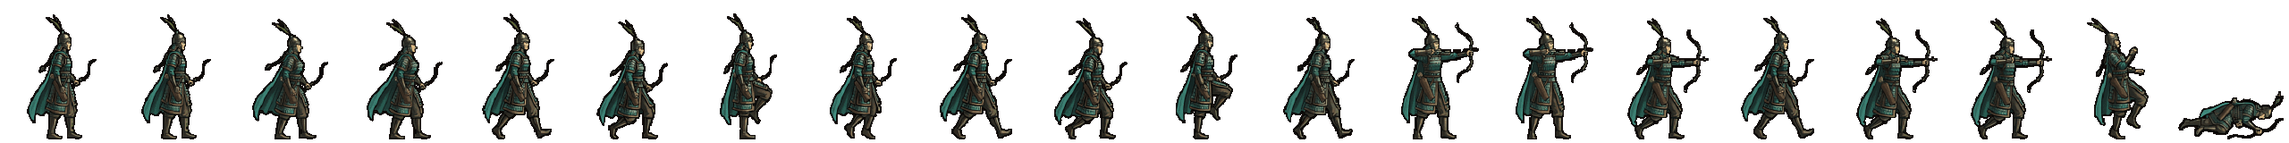
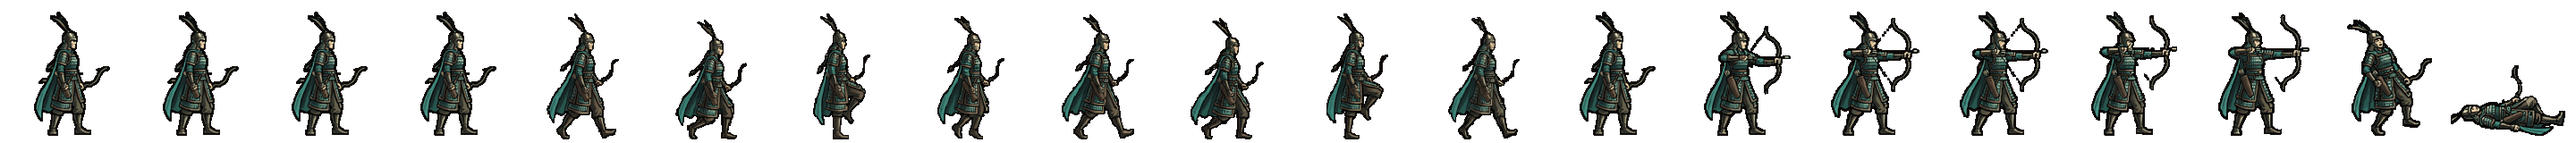
여궁수 기본 띠: 동작 8컷만 새로 (제미나이 edu Pro) — 공격 14·15칸에서 활이 빠지던 것 해결, 모든 칸에 활 한 장
Claude-Session: https://claude.ai/code/session_01TRiuN9kn81xgdziumEqNAF

diff --git a/src/realm/data/spritePx.ts b/src/realm/data/spritePx.ts
@@ -1,2 +1,2 @@
 /** public/realm/anim-px/manifest.json 의 사본 — tools/sprite-normalize.mjs 가 만든다 (손으로 고치지 말 것). 칸 [가로, 세로] · feet = 발 줄(칸 위에서 y) · bodyPx = 서 있는 몸 키 */
-export const SPRITE_PX: Readonly<Record<string, { readonly cell: readonly [number, number]; readonly feet: number; readonly bodyPx: number; readonly kind: 'general' | 'soldier' | 'folk' | 'crowd'; readonly cells: number }>> = {"axe":{"cell":[166,128],"feet":126,"bodyPx":124,"kind":"soldier","cells":20},"bandit-chief":{"cell":[116,128],"feet":126,"bodyPx":117,"kind":"soldier","cells":20},"bandit-club":{"cell":[127,128],"feet":126,"bodyPx":116,"kind":"soldier","cells":20},"boat":{"cell":[269,128],"feet":126,"bodyPx":126,"kind":"soldier","cells":20},"bow":{"cell":[503,128],"feet":126,"bodyPx":127,"kind":"soldier","cells":20},"crossbow":{"cell":[614,128],"feet":126,"bodyPx":126,"kind":"soldier","cells":20},"gen-adogan":{"cell":[144,160],"feet":156,"bodyPx":70,"kind":"general","cells":20},"gen-alpyeong":{"cell":[144,160],"feet":156,"bodyPx":70,"kind":"general","cells":20},"gen-ara":{"cell":[160,160],"feet":156,"bodyPx":70,"kind":"general","cells":20},"gen-areum":{"cell":[160,160],"feet":156,"bodyPx":70,"kind":"general","cells":20},"gen-aryeong":{"cell":[208,160],"feet":156,"bodyPx":70,"kind":"general","cells":20},"gen-bakdal":{"cell":[160,160],"feet":156,"bodyPx":70,"kind":"general","cells":20},"gen-baram":{"cell":[176,160],"feet":156,"bodyPx":70,"kind":"general","cells":20},"gen-bdanbi":{"cell":[152,160],"feet":156,"bodyPx":70,"kind":"general","cells":20},"gen-beom":{"cell":[168,160],"feet":156,"bodyPx":70,"kind":"general","cells":20},"gen-beombal":{"cell":[216,160],"feet":156,"bodyPx":70,"kind":"general","cells":20},"gen-beomi":{"cell":[160,160],"feet":156,"bodyPx":70,"kind":"general","cells":20},"gen-bira":{"cell":[176,160],"feet":156,"bodyPx":70,"kind":"general","cells":20},"gen-biryu":{"cell":[160,160],"feet":156,"bodyPx":73,"kind":"general","cells":20},"gen-budeul":{"cell":[248,160],"feet":156,"bodyPx":70,"kind":"general","cells":20},"gen-byeol":{"cell":[160,160],"feet":156,"bodyPx":70,"kind":"general","cells":20},"gen-daemusin":{"cell":[152,160],"feet":156,"bodyPx":70,"kind":"general","cells":20},"gen-daeso":{"cell":[176,160],"feet":156,"bodyPx":70,"kind":"general","cells":20},"gen-dallae2":{"cell":[168,160],"feet":156,"bodyPx":70,"kind":"general","cells":20},"gen-dalli":{"cell":[152,160],"feet":156,"bodyPx":70,"kind":"general","cells":20},"gen-damul":{"cell":[152,160],"feet":156,"bodyPx":70,"kind":"general","cells":20},"gen-danbi":{"cell":[152,160],"feet":156,"bodyPx":70,"kind":"general","cells":20},"gen-dangung":{"cell":[192,160],"feet":156,"bodyPx":70,"kind":"general","cells":20},"gen-darae":{"cell":[152,160],"feet":156,"bodyPx":70,"kind":"general","cells":20},"gen-dokmudeom":{"cell":[176,160],"feet":156,"bodyPx":70,"kind":"general","cells":20},"gen-duman":{"cell":[160,160],"feet":156,"bodyPx":70,"kind":"general","cells":20},"gen-eomni":{"cell":[160,160],"feet":156,"bodyPx":70,"kind":"general","cells":20},"gen-eureum":{"cell":[144,160],"feet":156,"bodyPx":70,"kind":"general","cells":20},"gen-g-bow":{"cell":[144,160],"feet":156,"bodyPx":70,"kind":"general","cells":20},"gen-g-spear":{"cell":[208,160],"feet":156,"bodyPx":70,"kind":"general","cells":20},"gen-g-sword":{"cell":[192,160],"feet":156,"bodyPx":70,"kind":"general","cells":20},"gen-gaennae":{"cell":[232,160],"feet":156,"bodyPx":70,"kind":"general","cells":20},"gen-gamsil":{"cell":[160,160],"feet":156,"bodyPx":70,"kind":"general","cells":20},"gen-gaon":{"cell":[152,160],"feet":156,"bodyPx":70,"kind":"general","cells":20},"gen-geota":{"cell":[192,160],"feet":156,"bodyPx":69,"kind":"general","cells":20},"gen-geumbawi":{"cell":[160,160],"feet":156,"bodyPx":70,"kind":"general","cells":20},"gen-geumha":{"cell":[192,160],"feet":156,"bodyPx":72,"kind":"general","cells":20},"gen-goeun":{"cell":[144,160],"feet":156,"bodyPx":70,"kind":"general","cells":20},"gen-gom":{"cell":[168,160],"feet":156,"bodyPx":70,"kind":"general","cells":20},"gen-gomok":{"cell":[152,160],"feet":156,"bodyPx":70,"kind":"general","cells":20},"gen-gureum":{"cell":[168,160],"feet":156,"bodyPx":70,"kind":"general","cells":20},"gen-guryema":{"cell":[152,160],"feet":156,"bodyPx":70,"kind":"general","cells":20},"gen-gwaeyu":{"cell":[200,160],"feet":156,"bodyPx":70,"kind":"general","cells":20},"gen-haebi":{"cell":[152,160],"feet":156,"bodyPx":70,"kind":"general","cells":20},"gen-haedal":{"cell":[152,160],"feet":156,"bodyPx":70,"kind":"general","cells":20},"gen-haesol":{"cell":[168,160],"feet":156,"bodyPx":70,"kind":"general","cells":20},"gen-halla":{"cell":[176,160],"feet":156,"bodyPx":70,"kind":"general","cells":20},"gen-heo":{"cell":[144,160],"feet":156,"bodyPx":70,"kind":"general","cells":20},"gen-hneoul":{"cell":[152,160],"feet":156,"bodyPx":70,"kind":"general","cells":20},"gen-hogong":{"cell":[160,160],"feet":156,"bodyPx":70,"kind":"general","cells":20},"gen-hojin":{"cell":[152,160],"feet":156,"bodyPx":70,"kind":"general","cells":20},"gen-horselord":{"cell":[144,160],"feet":156,"bodyPx":70,"kind":"general","cells":20},"gen-hwalmi":{"cell":[192,160],"feet":156,"bodyPx":70,"kind":"general","cells":20},"gen-hyeokgeose":{"cell":[160,160],"feet":156,"bodyPx":70,"kind":"general","cells":20},"gen-hyeopbo":{"cell":[168,160],"feet":156,"bodyPx":70,"kind":"general","cells":20},"gen-irang":{"cell":[160,160],"feet":156,"bodyPx":70,"kind":"general","cells":20},"gen-jibaekho":{"cell":[160,160],"feet":156,"bodyPx":70,"kind":"general","cells":20},"gen-jinha":{"cell":[168,160],"feet":156,"bodyPx":70,"kind":"general","cells":20},"gen-jita":{"cell":[144,160],"feet":156,"bodyPx":70,"kind":"general","cells":20},"gen-jumong":{"cell":[144,160],"feet":156,"bodyPx":70,"kind":"general","cells":20},"gen-keundol":{"cell":[152,160],"feet":156,"bodyPx":70,"kind":"general","cells":20},"gen-maehwa":{"cell":[144,160],"feet":156,"bodyPx":70,"kind":"general","cells":20},"gen-maenun":{"cell":[136,160],"feet":156,"bodyPx":70,"kind":"general","cells":20},"gen-malgalgi":{"cell":[168,160],"feet":156,"bodyPx":70,"kind":"general","cells":20},"gen-mari":{"cell":[152,160],"feet":156,"bodyPx":70,"kind":"general","cells":20},"gen-maro":{"cell":[160,160],"feet":156,"bodyPx":70,"kind":"general","cells":20},"gen-maryeo":{"cell":[152,160],"feet":156,"bodyPx":70,"kind":"general","cells":20},"gen-mdallae":{"cell":[168,160],"feet":156,"bodyPx":70,"kind":"general","cells":20},"gen-mir":{"cell":[144,160],"feet":156,"bodyPx":70,"kind":"general","cells":20},"gen-mount":{"cell":[232,160],"feet":156,"bodyPx":73,"kind":"general","cells":20},"gen-mulbeom":{"cell":[160,160],"feet":156,"bodyPx":70,"kind":"general","cells":20},"gen-mulsae":{"cell":[168,160],"feet":156,"bodyPx":70,"kind":"general","cells":20},"gen-musoe":{"cell":[152,160],"feet":156,"bodyPx":70,"kind":"general","cells":20},"gen-noeul":{"cell":[160,160],"feet":156,"bodyPx":70,"kind":"general","cells":20},"gen-nuri":{"cell":[168,160],"feet":156,"bodyPx":70,"kind":"general","cells":20},"gen-ocheongan":{"cell":[168,160],"feet":156,"bodyPx":70,"kind":"general","cells":20},"gen-odi":{"cell":[152,160],"feet":156,"bodyPx":70,"kind":"general","cells":20},"gen-odogan":{"cell":[168,160],"feet":156,"bodyPx":70,"kind":"general","cells":20},"gen-ogan":{"cell":[152,160],"feet":156,"bodyPx":70,"kind":"general","cells":20},"gen-oi":{"cell":[152,160],"feet":156,"bodyPx":70,"kind":"general","cells":20},"gen-olddaeso":{"cell":[144,160],"feet":156,"bodyPx":70,"kind":"general","cells":20},"gen-onjo":{"cell":[152,160],"feet":156,"bodyPx":70,"kind":"general","cells":20},"gen-pidogan":{"cell":[152,160],"feet":156,"bodyPx":70,"kind":"general","cells":20},"gen-sagong":{"cell":[160,160],"feet":156,"bodyPx":70,"kind":"general","cells":20},"gen-sdallae":{"cell":[168,160],"feet":156,"bodyPx":70,"kind":"general","cells":20},"gen-sincheongan":{"cell":[160,160],"feet":156,"bodyPx":70,"kind":"general","cells":20},"gen-singwigan":{"cell":[208,160],"feet":156,"bodyPx":70,"kind":"general","cells":20},"gen-sinneoul":{"cell":[176,160],"feet":156,"bodyPx":70,"kind":"general","cells":20},"gen-sobeol":{"cell":[152,160],"feet":156,"bodyPx":70,"kind":"general","cells":20},"gen-soebi":{"cell":[160,160],"feet":156,"bodyPx":70,"kind":"general","cells":20},"gen-soebo":{"cell":[208,160],"feet":156,"bodyPx":72,"kind":"general","cells":20},"gen-soenun":{"cell":[248,160],"feet":156,"bodyPx":70,"kind":"general","cells":20},"gen-sogeumbi":{"cell":[192,160],"feet":156,"bodyPx":70,"kind":"general","cells":20},"gen-songbi":{"cell":[152,160],"feet":156,"bodyPx":70,"kind":"general","cells":20},"gen-songyang":{"cell":[136,160],"feet":156,"bodyPx":70,"kind":"general","cells":20},"gen-sori":{"cell":[208,160],"feet":156,"bodyPx":70,"kind":"general","cells":20},"gen-soseono":{"cell":[208,160],"feet":156,"bodyPx":70,"kind":"general","cells":20},"gen-suro":{"cell":[160,160],"feet":156,"bodyPx":70,"kind":"general","cells":20},"gen-tahae":{"cell":[152,160],"feet":156,"bodyPx":70,"kind":"general","cells":20},"gen-tneoul":{"cell":[152,160],"feet":156,"bodyPx":70,"kind":"general","cells":20},"gen-w-bow":{"cell":[128,160],"feet":156,"bodyPx":70,"kind":"general","cells":20},"gen-w-spear":{"cell":[176,160],"feet":156,"bodyPx":70,"kind":"general","cells":20},"gen-waechief":{"cell":[152,160],"feet":156,"bodyPx":70,"kind":"general","cells":20},"gen-wan":{"cell":[144,160],"feet":156,"bodyPx":70,"kind":"general","cells":20},"gen-yeodogan":{"cell":[176,160],"feet":156,"bodyPx":70,"kind":"general","cells":20},"gen-yucheongan":{"cell":[152,160],"feet":156,"bodyPx":70,"kind":"general","cells":20},"gen-yusugan":{"cell":[168,160],"feet":156,"bodyPx":70,"kind":"general","cells":20},"horse":{"cell":[186,128],"feet":126,"bodyPx":127,"kind":"soldier","cells":20},"marine":{"cell":[298,128],"feet":126,"bodyPx":126,"kind":"soldier","cells":20},"migrant":{"cell":[82,128],"feet":126,"bodyPx":114,"kind":"folk","cells":8},"militia":{"cell":[134,128],"feet":126,"bodyPx":119,"kind":"soldier","cells":20},"pike":{"cell":[380,128],"feet":126,"bodyPx":124,"kind":"soldier","cells":20},"pirate-captain":{"cell":[114,128],"feet":126,"bodyPx":115,"kind":"soldier","cells":20},"pirate-sword":{"cell":[122,128],"feet":126,"bodyPx":114,"kind":"soldier","cells":20},"shield":{"cell":[254,128],"feet":126,"bodyPx":128,"kind":"soldier","cells":20},"spear":{"cell":[438,128],"feet":126,"bodyPx":126,"kind":"soldier","cells":20},"villager-builder":{"cell":[88,128],"feet":126,"bodyPx":113,"kind":"folk","cells":8},"villager-farmer":{"cell":[100,128],"feet":126,"bodyPx":115,"kind":"folk","cells":8},"villager-porter":{"cell":[108,128],"feet":126,"bodyPx":115,"kind":"folk","cells":8},"villager-woman":{"cell":[63,128],"feet":126,"bodyPx":113,"kind":"folk","cells":8},"crowd-b1":{"cell":[69,96],"feet":96,"bodyPx":96,"kind":"crowd","cells":1},"crowd-b2":{"cell":[54,96],"feet":96,"bodyPx":96,"kind":"crowd","cells":1},"crowd-b3":{"cell":[47,96],"feet":96,"bodyPx":96,"kind":"crowd","cells":1},"crowd-b4":{"cell":[49,96],"feet":96,"bodyPx":96,"kind":"crowd","cells":1},"crowd-b5":{"cell":[57,96],"feet":96,"bodyPx":96,"kind":"crowd","cells":1},"crowd-b6":{"cell":[55,96],"feet":96,"bodyPx":96,"kind":"crowd","cells":1},"crowd-f1":{"cell":[69,96],"feet":96,"bodyPx":96,"kind":"crowd","cells":1},"crowd-f2":{"cell":[55,96],"feet":96,"bodyPx":96,"kind":"crowd","cells":1},"crowd-f3":{"cell":[45,96],"feet":96,"bodyPx":96,"kind":"crowd","cells":1},"crowd-f4":{"cell":[53,96],"feet":96,"bodyPx":96,"kind":"crowd","cells":1},"crowd-f5":{"cell":[69,96],"feet":96,"bodyPx":96,"kind":"crowd","cells":1},"crowd-f6":{"cell":[64,96],"feet":96,"bodyPx":96,"kind":"crowd","cells":1},"gen-dalbit":{"cell":[96,72],"feet":72,"bodyPx":72,"kind":"general","cells":20}}
+export const SPRITE_PX: Readonly<Record<string, { readonly cell: readonly [number, number]; readonly feet: number; readonly bodyPx: number; readonly kind: 'general' | 'soldier' | 'folk' | 'crowd'; readonly cells: number }>> = {"axe":{"cell":[166,128],"feet":126,"bodyPx":124,"kind":"soldier","cells":20},"bandit-chief":{"cell":[116,128],"feet":126,"bodyPx":117,"kind":"soldier","cells":20},"bandit-club":{"cell":[127,128],"feet":126,"bodyPx":116,"kind":"soldier","cells":20},"boat":{"cell":[269,128],"feet":126,"bodyPx":126,"kind":"soldier","cells":20},"bow":{"cell":[503,128],"feet":126,"bodyPx":127,"kind":"soldier","cells":20},"crossbow":{"cell":[614,128],"feet":126,"bodyPx":126,"kind":"soldier","cells":20},"gen-adogan":{"cell":[144,160],"feet":156,"bodyPx":70,"kind":"general","cells":20},"gen-alpyeong":{"cell":[144,160],"feet":156,"bodyPx":70,"kind":"general","cells":20},"gen-ara":{"cell":[160,160],"feet":156,"bodyPx":70,"kind":"general","cells":20},"gen-areum":{"cell":[160,160],"feet":156,"bodyPx":70,"kind":"general","cells":20},"gen-aryeong":{"cell":[208,160],"feet":156,"bodyPx":70,"kind":"general","cells":20},"gen-bakdal":{"cell":[160,160],"feet":156,"bodyPx":70,"kind":"general","cells":20},"gen-baram":{"cell":[176,160],"feet":156,"bodyPx":70,"kind":"general","cells":20},"gen-bdanbi":{"cell":[152,160],"feet":156,"bodyPx":70,"kind":"general","cells":20},"gen-beom":{"cell":[168,160],"feet":156,"bodyPx":70,"kind":"general","cells":20},"gen-beombal":{"cell":[216,160],"feet":156,"bodyPx":70,"kind":"general","cells":20},"gen-beomi":{"cell":[160,160],"feet":156,"bodyPx":70,"kind":"general","cells":20},"gen-bira":{"cell":[176,160],"feet":156,"bodyPx":70,"kind":"general","cells":20},"gen-biryu":{"cell":[160,160],"feet":156,"bodyPx":73,"kind":"general","cells":20},"gen-budeul":{"cell":[248,160],"feet":156,"bodyPx":70,"kind":"general","cells":20},"gen-byeol":{"cell":[160,160],"feet":156,"bodyPx":70,"kind":"general","cells":20},"gen-daemusin":{"cell":[152,160],"feet":156,"bodyPx":70,"kind":"general","cells":20},"gen-daeso":{"cell":[176,160],"feet":156,"bodyPx":70,"kind":"general","cells":20},"gen-dallae2":{"cell":[168,160],"feet":156,"bodyPx":70,"kind":"general","cells":20},"gen-dalli":{"cell":[152,160],"feet":156,"bodyPx":70,"kind":"general","cells":20},"gen-damul":{"cell":[152,160],"feet":156,"bodyPx":70,"kind":"general","cells":20},"gen-danbi":{"cell":[152,160],"feet":156,"bodyPx":70,"kind":"general","cells":20},"gen-dangung":{"cell":[192,160],"feet":156,"bodyPx":70,"kind":"general","cells":20},"gen-darae":{"cell":[152,160],"feet":156,"bodyPx":70,"kind":"general","cells":20},"gen-dokmudeom":{"cell":[176,160],"feet":156,"bodyPx":70,"kind":"general","cells":20},"gen-duman":{"cell":[160,160],"feet":156,"bodyPx":70,"kind":"general","cells":20},"gen-eomni":{"cell":[160,160],"feet":156,"bodyPx":70,"kind":"general","cells":20},"gen-eureum":{"cell":[144,160],"feet":156,"bodyPx":70,"kind":"general","cells":20},"gen-g-bow":{"cell":[144,160],"feet":156,"bodyPx":70,"kind":"general","cells":20},"gen-g-spear":{"cell":[208,160],"feet":156,"bodyPx":70,"kind":"general","cells":20},"gen-g-sword":{"cell":[192,160],"feet":156,"bodyPx":70,"kind":"general","cells":20},"gen-gaennae":{"cell":[232,160],"feet":156,"bodyPx":70,"kind":"general","cells":20},"gen-gamsil":{"cell":[160,160],"feet":156,"bodyPx":70,"kind":"general","cells":20},"gen-gaon":{"cell":[152,160],"feet":156,"bodyPx":70,"kind":"general","cells":20},"gen-geota":{"cell":[192,160],"feet":156,"bodyPx":69,"kind":"general","cells":20},"gen-geumbawi":{"cell":[160,160],"feet":156,"bodyPx":70,"kind":"general","cells":20},"gen-geumha":{"cell":[192,160],"feet":156,"bodyPx":72,"kind":"general","cells":20},"gen-goeun":{"cell":[144,160],"feet":156,"bodyPx":70,"kind":"general","cells":20},"gen-gom":{"cell":[168,160],"feet":156,"bodyPx":70,"kind":"general","cells":20},"gen-gomok":{"cell":[152,160],"feet":156,"bodyPx":70,"kind":"general","cells":20},"gen-gureum":{"cell":[168,160],"feet":156,"bodyPx":70,"kind":"general","cells":20},"gen-guryema":{"cell":[152,160],"feet":156,"bodyPx":70,"kind":"general","cells":20},"gen-gwaeyu":{"cell":[200,160],"feet":156,"bodyPx":70,"kind":"general","cells":20},"gen-haebi":{"cell":[152,160],"feet":156,"bodyPx":70,"kind":"general","cells":20},"gen-haedal":{"cell":[152,160],"feet":156,"bodyPx":70,"kind":"general","cells":20},"gen-haesol":{"cell":[168,160],"feet":156,"bodyPx":70,"kind":"general","cells":20},"gen-halla":{"cell":[176,160],"feet":156,"bodyPx":70,"kind":"general","cells":20},"gen-heo":{"cell":[144,160],"feet":156,"bodyPx":70,"kind":"general","cells":20},"gen-hneoul":{"cell":[152,160],"feet":156,"bodyPx":70,"kind":"general","cells":20},"gen-hogong":{"cell":[160,160],"feet":156,"bodyPx":70,"kind":"general","cells":20},"gen-hojin":{"cell":[152,160],"feet":156,"bodyPx":70,"kind":"general","cells":20},"gen-horselord":{"cell":[144,160],"feet":156,"bodyPx":70,"kind":"general","cells":20},"gen-hwalmi":{"cell":[192,160],"feet":156,"bodyPx":70,"kind":"general","cells":20},"gen-hyeokgeose":{"cell":[160,160],"feet":156,"bodyPx":70,"kind":"general","cells":20},"gen-hyeopbo":{"cell":[168,160],"feet":156,"bodyPx":70,"kind":"general","cells":20},"gen-irang":{"cell":[160,160],"feet":156,"bodyPx":70,"kind":"general","cells":20},"gen-jibaekho":{"cell":[160,160],"feet":156,"bodyPx":70,"kind":"general","cells":20},"gen-jinha":{"cell":[168,160],"feet":156,"bodyPx":70,"kind":"general","cells":20},"gen-jita":{"cell":[144,160],"feet":156,"bodyPx":70,"kind":"general","cells":20},"gen-jumong":{"cell":[144,160],"feet":156,"bodyPx":70,"kind":"general","cells":20},"gen-keundol":{"cell":[152,160],"feet":156,"bodyPx":70,"kind":"general","cells":20},"gen-maehwa":{"cell":[144,160],"feet":156,"bodyPx":70,"kind":"general","cells":20},"gen-maenun":{"cell":[136,160],"feet":156,"bodyPx":70,"kind":"general","cells":20},"gen-malgalgi":{"cell":[168,160],"feet":156,"bodyPx":70,"kind":"general","cells":20},"gen-mari":{"cell":[152,160],"feet":156,"bodyPx":70,"kind":"general","cells":20},"gen-maro":{"cell":[160,160],"feet":156,"bodyPx":70,"kind":"general","cells":20},"gen-maryeo":{"cell":[152,160],"feet":156,"bodyPx":70,"kind":"general","cells":20},"gen-mdallae":{"cell":[168,160],"feet":156,"bodyPx":70,"kind":"general","cells":20},"gen-mir":{"cell":[144,160],"feet":156,"bodyPx":70,"kind":"general","cells":20},"gen-mount":{"cell":[232,160],"feet":156,"bodyPx":73,"kind":"general","cells":20},"gen-mulbeom":{"cell":[160,160],"feet":156,"bodyPx":70,"kind":"general","cells":20},"gen-mulsae":{"cell":[168,160],"feet":156,"bodyPx":70,"kind":"general","cells":20},"gen-musoe":{"cell":[152,160],"feet":156,"bodyPx":70,"kind":"general","cells":20},"gen-noeul":{"cell":[160,160],"feet":156,"bodyPx":70,"kind":"general","cells":20},"gen-nuri":{"cell":[168,160],"feet":156,"bodyPx":70,"kind":"general","cells":20},"gen-ocheongan":{"cell":[168,160],"feet":156,"bodyPx":70,"kind":"general","cells":20},"gen-odi":{"cell":[152,160],"feet":156,"bodyPx":70,"kind":"general","cells":20},"gen-odogan":{"cell":[168,160],"feet":156,"bodyPx":70,"kind":"general","cells":20},"gen-ogan":{"cell":[152,160],"feet":156,"bodyPx":70,"kind":"general","cells":20},"gen-oi":{"cell":[152,160],"feet":156,"bodyPx":70,"kind":"general","cells":20},"gen-olddaeso":{"cell":[144,160],"feet":156,"bodyPx":70,"kind":"general","cells":20},"gen-onjo":{"cell":[152,160],"feet":156,"bodyPx":70,"kind":"general","cells":20},"gen-pidogan":{"cell":[152,160],"feet":156,"bodyPx":70,"kind":"general","cells":20},"gen-sagong":{"cell":[160,160],"feet":156,"bodyPx":70,"kind":"general","cells":20},"gen-sdallae":{"cell":[168,160],"feet":156,"bodyPx":70,"kind":"general","cells":20},"gen-sincheongan":{"cell":[160,160],"feet":156,"bodyPx":70,"kind":"general","cells":20},"gen-singwigan":{"cell":[208,160],"feet":156,"bodyPx":70,"kind":"general","cells":20},"gen-sinneoul":{"cell":[176,160],"feet":156,"bodyPx":70,"kind":"general","cells":20},"gen-sobeol":{"cell":[152,160],"feet":156,"bodyPx":70,"kind":"general","cells":20},"gen-soebi":{"cell":[160,160],"feet":156,"bodyPx":70,"kind":"general","cells":20},"gen-soebo":{"cell":[208,160],"feet":156,"bodyPx":72,"kind":"general","cells":20},"gen-soenun":{"cell":[248,160],"feet":156,"bodyPx":70,"kind":"general","cells":20},"gen-sogeumbi":{"cell":[192,160],"feet":156,"bodyPx":70,"kind":"general","cells":20},"gen-songbi":{"cell":[152,160],"feet":156,"bodyPx":70,"kind":"general","cells":20},"gen-songyang":{"cell":[136,160],"feet":156,"bodyPx":70,"kind":"general","cells":20},"gen-sori":{"cell":[208,160],"feet":156,"bodyPx":70,"kind":"general","cells":20},"gen-soseono":{"cell":[208,160],"feet":156,"bodyPx":70,"kind":"general","cells":20},"gen-suro":{"cell":[160,160],"feet":156,"bodyPx":70,"kind":"general","cells":20},"gen-tahae":{"cell":[152,160],"feet":156,"bodyPx":70,"kind":"general","cells":20},"gen-tneoul":{"cell":[152,160],"feet":156,"bodyPx":70,"kind":"general","cells":20},"gen-w-bow":{"cell":[144,160],"feet":156,"bodyPx":70,"kind":"general","cells":20},"gen-w-spear":{"cell":[176,160],"feet":156,"bodyPx":70,"kind":"general","cells":20},"gen-waechief":{"cell":[152,160],"feet":156,"bodyPx":70,"kind":"general","cells":20},"gen-wan":{"cell":[144,160],"feet":156,"bodyPx":70,"kind":"general","cells":20},"gen-yeodogan":{"cell":[176,160],"feet":156,"bodyPx":70,"kind":"general","cells":20},"gen-yucheongan":{"cell":[152,160],"feet":156,"bodyPx":70,"kind":"general","cells":20},"gen-yusugan":{"cell":[168,160],"feet":156,"bodyPx":70,"kind":"general","cells":20},"horse":{"cell":[186,128],"feet":126,"bodyPx":127,"kind":"soldier","cells":20},"marine":{"cell":[298,128],"feet":126,"bodyPx":126,"kind":"soldier","cells":20},"migrant":{"cell":[82,128],"feet":126,"bodyPx":114,"kind":"folk","cells":8},"militia":{"cell":[134,128],"feet":126,"bodyPx":119,"kind":"soldier","cells":20},"pike":{"cell":[380,128],"feet":126,"bodyPx":124,"kind":"soldier","cells":20},"pirate-captain":{"cell":[114,128],"feet":126,"bodyPx":115,"kind":"soldier","cells":20},"pirate-sword":{"cell":[122,128],"feet":126,"bodyPx":114,"kind":"soldier","cells":20},"shield":{"cell":[254,128],"feet":126,"bodyPx":128,"kind":"soldier","cells":20},"spear":{"cell":[438,128],"feet":126,"bodyPx":126,"kind":"soldier","cells":20},"villager-builder":{"cell":[88,128],"feet":126,"bodyPx":113,"kind":"folk","cells":8},"villager-farmer":{"cell":[100,128],"feet":126,"bodyPx":115,"kind":"folk","cells":8},"villager-porter":{"cell":[108,128],"feet":126,"bodyPx":115,"kind":"folk","cells":8},"villager-woman":{"cell":[63,128],"feet":126,"bodyPx":113,"kind":"folk","cells":8},"crowd-b1":{"cell":[69,96],"feet":96,"bodyPx":96,"kind":"crowd","cells":1},"crowd-b2":{"cell":[54,96],"feet":96,"bodyPx":96,"kind":"crowd","cells":1},"crowd-b3":{"cell":[47,96],"feet":96,"bodyPx":96,"kind":"crowd","cells":1},"crowd-b4":{"cell":[49,96],"feet":96,"bodyPx":96,"kind":"crowd","cells":1},"crowd-b5":{"cell":[57,96],"feet":96,"bodyPx":96,"kind":"crowd","cells":1},"crowd-b6":{"cell":[55,96],"feet":96,"bodyPx":96,"kind":"crowd","cells":1},"crowd-f1":{"cell":[69,96],"feet":96,"bodyPx":96,"kind":"crowd","cells":1},"crowd-f2":{"cell":[55,96],"feet":96,"bodyPx":96,"kind":"crowd","cells":1},"crowd-f3":{"cell":[45,96],"feet":96,"bodyPx":96,"kind":"crowd","cells":1},"crowd-f4":{"cell":[53,96],"feet":96,"bodyPx":96,"kind":"crowd","cells":1},"crowd-f5":{"cell":[69,96],"feet":96,"bodyPx":96,"kind":"crowd","cells":1},"crowd-f6":{"cell":[64,96],"feet":96,"bodyPx":96,"kind":"crowd","cells":1},"gen-dalbit":{"cell":[96,72],"feet":72,"bodyPx":72,"kind":"general","cells":20}}

diff --git a/src/realm/data/art.ts b/src/realm/data/art.ts
@@ -472,7 +472,7 @@ export const GEN_ANIM: Readonly<Partial<Record<string, { ar: number; body: numbe
   'g-bow': { ar: 149 / 160, body: 0.948, bow: true }, // 11-03 20컷 다시 (걷기가 한 자세였다)
   'g-spear': { ar: 215 / 160, body: 0.925 }, // 11-03 20컷 다시 (걷기가 한 자세였다) · 11-11 동작 8컷만 새로(창끝이 칸 오른쪽 끝에 잘림)
   'w-spear': { ar: 180 / 160, body: 0.934 }, // 11-04 우하단 두 컷(걷기 8 · 쓰러짐)을 별표 없는 장으로 갈아 끼움
-  'w-bow': { ar: 140 / 160, body: 0.968, bow: true }, // 11-10 bow 빠져 있어 여궁수가 적 코앞까지 달려가 쐈다(형: 활 쏘는 장수는 제자리에서) · 11-04 우하단 두 컷(걷기 8 · 쓰러짐)을 별표 없는 장으로 갈아 끼움
+  'w-bow': { ar: 154 / 160, body: 0.968, bow: true }, // 11-11 동작 8컷만 새로(제미나이 edu Pro · 14·15칸에서 활이 빠지던 것) · 11-10 bow 빠져 있어 여궁수가 적 코앞까지 달려가 쐈다(형: 활 쏘는 장수는 제자리에서) · 11-04 우하단 두 컷(걷기 8 · 쓰러짐)을 별표 없는 장으로 갈아 끼움
   mount: { ar: 246 / 160, body: 0.968, mount: true },
   // 제 그림 (GEN_OWN) — 글 주문만으로 받은 장수 (docs/realm/GENERAL-SPRITES.md)
   jumong: { ar: 140 / 160, body: 0.900, bow: true }, // 11-08 초상대로 다시 (형: 「투구 쓰고 원본과 다르다」 · 제미나이 걷기 4×2 + 동작 4×2 → 20컷 · assets_src/realm/gemini/generals2)

diff --git a/src/ui/realm/battle-strikes.ts b/src/ui/realm/battle-strikes.ts
@@ -126,7 +126,7 @@ interface Actor extends Unit {
 // Bow grip in the drawn cell, measured in normalized sprite coordinates.
 const RELEASE: Readonly<Record<string, [number, number, number]>> = {
   bow: [14, .614, .34], crossbow: [14, .59, .22],
-  'gen-g-bow': [14, .82, .35], 'gen-w-bow': [13, .87, .31],
+  'gen-g-bow': [14, .82, .35], 'gen-w-bow': [14, .90, .34],
   'gen-jumong': [14, 0.97, 0.34], 'gen-maenun': [14, .88, .34],
   'gen-ogan': [14, .87, .32], 'gen-haedal': [14, 0.91, 0.26],
   'gen-songbi': [14, 0.91, 0.24], 'gen-damul': [14, 0.98, 0.33],
